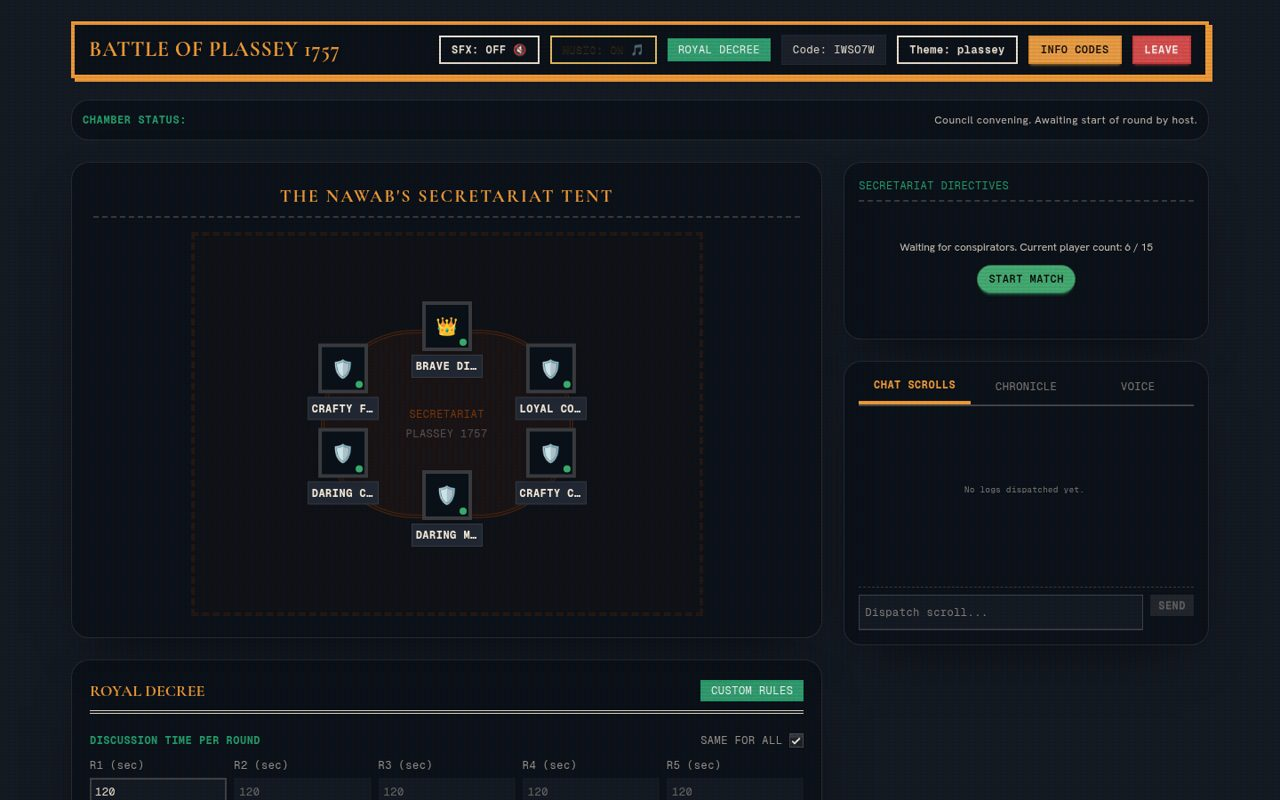
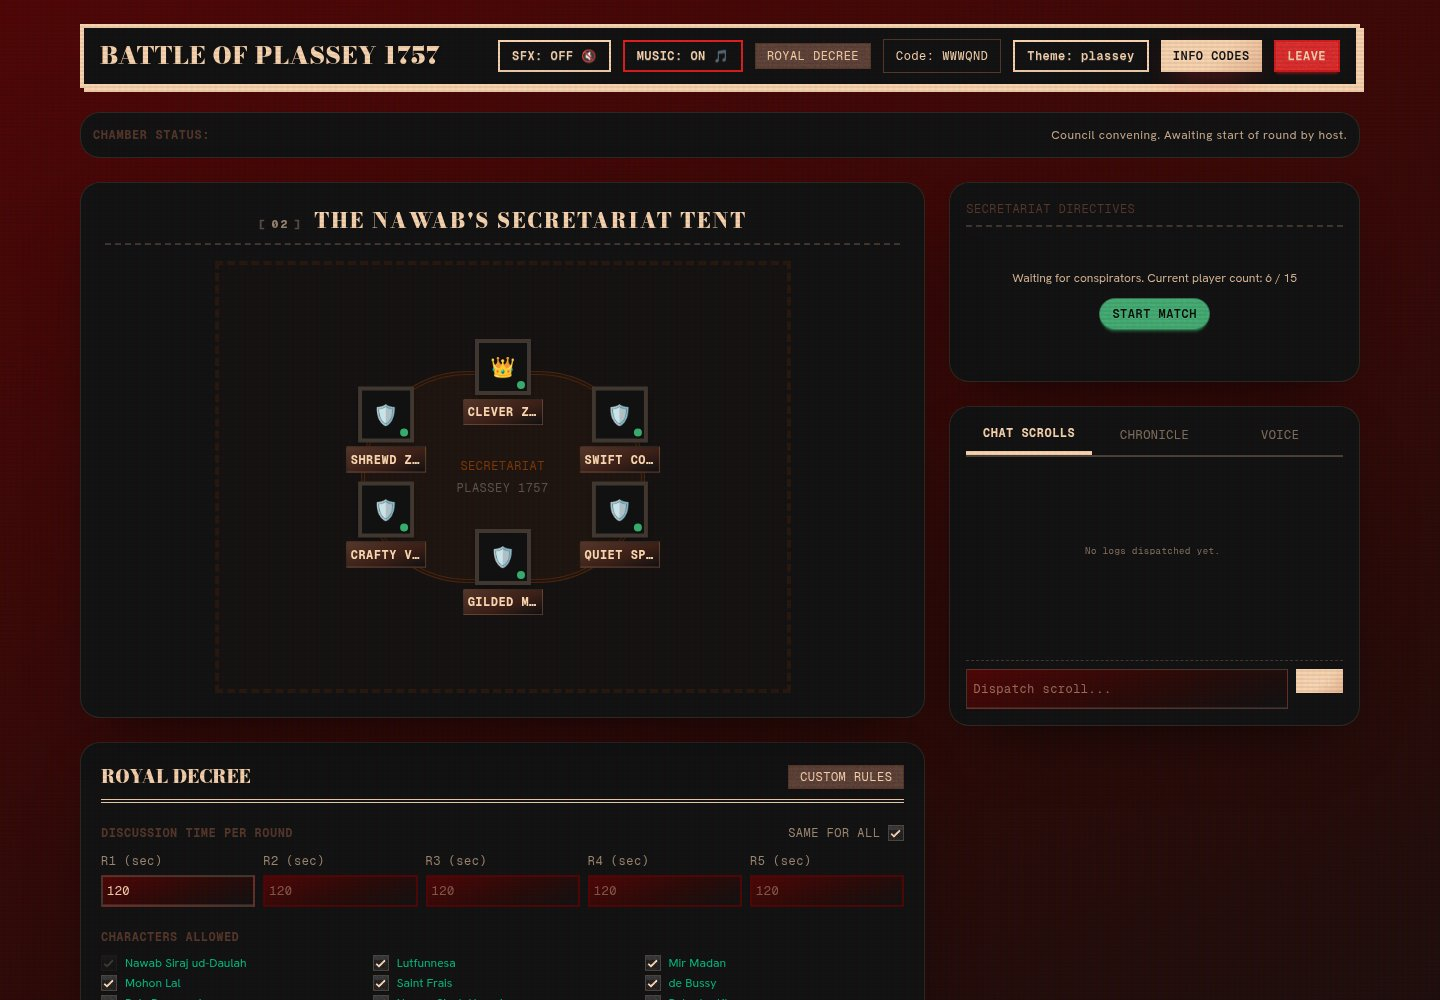
Refresh game screenshots and document battle recap

diff --git a/README.md b/README.md
@@ -45,6 +45,9 @@
     <td width="50%"><img src="doc/screenshots/game/red-win.jpg" alt="<b>East India Company wins</b>: Mir Jafar found Mir Madan."><br><sub><b>East India Company wins</b>: Mir Jafar found Mir Madan.</sub></td>
     <td width="50%"><img src="doc/screenshots/game/green-win.jpg" alt="<b>Nawab's Loyalists win</b> (the Company loses)."><br><sub><b>Nawab's Loyalists win</b> (the Company loses).</sub></td>
   </tr>
+  <tr>
+    <td colspan="2"><img src="doc/screenshots/game/battle-recap.jpg" alt="Full battle recap with round scores, ministers, ballots, mission cards, the Mir Madan reveal, and every player's result."><br><sub><b>Battle recap</b>: the complete match story — rounds, ministers, every ballot, mission cards, the Mir Madan reveal, final identities, and each player's win or loss.</sub></td>
+  </tr>
 </table>
 
 
@@ -93,6 +96,7 @@ Role reveal → Discussion → Leader picks ministers → Everyone votes → Min
 - **30-second reconnect grace:** drop out and rejoin without losing your seat.
 - **15 named roles plus 2 fillers** (Loyalist and EIC Spy), with role dependencies such as Mir Jafar ⇄ Mir Madan.
 - **Progression:** XP, levels, match history and win rate on your profile.
+- **Full battle recap:** winner and reason, round scores, ministers, every ballot and vote, mission cards, Mir Madan's reveal, Jagat Seth's gamble, and every player's final identity and win/loss result.
 - **Admin telemetry dashboard:** match analytics, player stats and user moderation.
 
 ## Tech stack

diff --git a/code/README.md b/code/README.md
@@ -7,6 +7,7 @@ A real-time multiplayer hidden-role deduction game set in 1757 Bengal, built as 
 - **Palette (strict):** cream `#f9d4af`, walnut `#55362a`, red `#e01e1e`, oxblood `#4f0505`, ink `#111111` — blended with soft gradients on every surface.
 - **Hero:** a gilded duel — Nawab Siraj-ud-Daulah and Robert Clive crossing swords — rising through an edge-to-edge **1757** title.
 - **Transitions on every page:** public pages open with the battle painting lifting away; in-game screens (lobby → end of match) use a Prägen Hätlen-style veil with a bracketed `[000]→[100]` counter, gradient hairline and blur-in, plus bracketed section labels.
+- **Battle recap:** every match ends with a full-width report covering the winner and reason, round scores, ministers, all ballots and votes, mission cards, Mir Madan's reveal, Jagat Seth's gamble, and every player's final identity and result.
 
 ## Architecture
 
